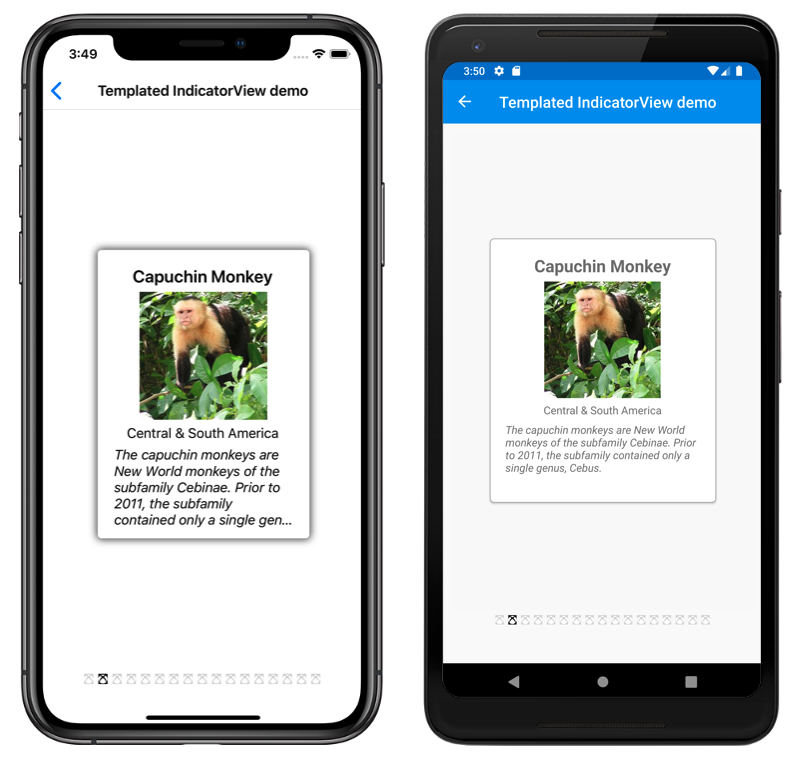
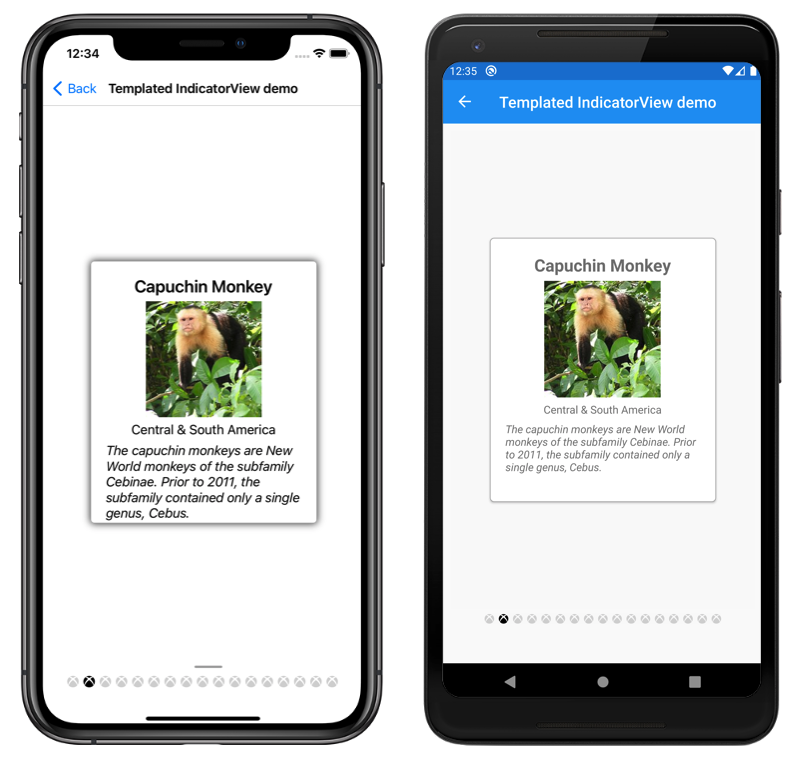
Forms 5.0 SR3 (#2315)
* Selected visual state.

* Image rename.

* Edit.

* Code update.

diff --git a/docs/xamarin-forms/user-interface/indicatorview.md b/docs/xamarin-forms/user-interface/indicatorview.md
@@ -6,7 +6,7 @@ ms.assetId: BBCC223B-4B02-46B7-80BB-EE0E86A67CE2
 ms.technology: xamarin-forms
 author: davidbritch
 ms.author: dabritch
-ms.date: 02/27/2020
+ms.date: 02/24/2021
 no-loc: [Xamarin.Forms, Xamarin.Essentials]
 ---
 
@@ -14,29 +14,29 @@ no-loc: [Xamarin.Forms, Xamarin.Essentials]
 
 [![Download Sample](~/media/shared/download.png) Download the sample](/samples/xamarin/xamarin-forms-samples/userinterface-indicatorviewdemos/)
 
-The `IndicatorView` is a control that displays indicators that represent the number of items, and current position, in a `CarouselView`:
+The [`IndicatorView`](xref:Xamarin.Forms.IndicatorView) is a control that displays indicators that represent the number of items, and current position, in a [`CarouselView`](xref:Xamarin.Forms.CarouselView):
 
 [![Screenshot of a CarouselView and IndicatorView, on iOS and Android](indicatorview-images/circles.png "IndicatorView circles")](indicatorview-images/circles-large.png#lightbox "IndicatorView circles")
 
-`IndicatorView` defines the following properties:
+[`IndicatorView`](xref:Xamarin.Forms.IndicatorView) defines the following properties:
 
 - `Count`, of type `int`, the number of indicators.
 - `HideSingle`, of type `bool`, indicates whether the indicator should be hidden when only one exists. The default value is `true`.
 - `IndicatorColor`, of type `Color`, the color of the indicators.
 - `IndicatorSize`, of type `double`, the size of the indicators. The default value is 6.0.
-- `IndicatorLayout`, of type `Layout<View>`, defines the layout class used to render the `IndicatorView`. This property is set by Xamarin.Forms, and does not typically need to be set by developers.
+- `IndicatorLayout`, of type `Layout<View>`, defines the layout class used to render the [`IndicatorView`](xref:Xamarin.Forms.IndicatorView). This property is set by Xamarin.Forms, and does not typically need to be set by developers.
 - `IndicatorTemplate`, of type `DataTemplate`, the template that defines the appearance of each indicator.
 - `IndicatorsShape`, of type `IndicatorShape`, the shape of each indicator.
 - `ItemsSource`, of type `IEnumerable`, the collection that indicators will be displayed for. This property will automatically be set when the `CarouselView.IndicatorView` property is set.
 - `MaximumVisible`, of type `int`, the maximum number of visible indicators. The default value is `int.MaxValue`.
 - `Position`, of type `int`, the currently selected indicator index. This property uses a `TwoWay` binding. This property will automatically be set when the `CarouselView.IndicatorView` property is set.
-- `SelectedIndicatorColor`, of type `Color`, the color of the indicator that represents the current item in the `CarouselView`.
+- `SelectedIndicatorColor`, of type `Color`, the color of the indicator that represents the current item in the [`CarouselView`](xref:Xamarin.Forms.CarouselView).
 
 These properties are backed by [`BindableProperty`](xref:Xamarin.Forms.BindableProperty) objects, which means that they can be targets of data bindings, and styled.
 
 ## Create an IndicatorView
 
-The following example shows how to instantiate an `IndicatorView` in XAML:
+The following example shows how to instantiate an [`IndicatorView`](xref:Xamarin.Forms.IndicatorView) in XAML:
 
 ```xaml
 <StackLayout>
@@ -53,19 +53,19 @@ The following example shows how to instantiate an `IndicatorView` in XAML:
 </StackLayout>
 ```
 
-In this example, the `IndicatorView` is rendered beneath the `CarouselView`, with an indicator for each item in the `CarouselView`. The `IndicatorView` is populated with data by setting the `CarouselView.IndicatorView` property to the `IndicatorView` object. Each indicator is a light gray circle, while the indicator that represents the current item in the `CarouselView` is dark gray.
+In this example, the [`IndicatorView`](xref:Xamarin.Forms.IndicatorView) is rendered beneath the [`CarouselView`](xref:Xamarin.Forms.CarouselView), with an indicator for each item in the `CarouselView`. The `IndicatorView` is populated with data by setting the `CarouselView.IndicatorView` property to the `IndicatorView` object. Each indicator is a light gray circle, while the indicator that represents the current item in the `CarouselView` is dark gray.
 
 > [!IMPORTANT]
 > Setting the `CarouselView.IndicatorView` property results in the `IndicatorView.Position` property binding to the `CarouselView.Position` property, and the `IndicatorView.ItemsSource` property binding to the `CarouselView.ItemsSource` property.
 
 ## Change indicator shape
 
-The `IndicatorView` class has an `IndicatorsShape` property, which determines the shape of the indicators. This property can be set to one of the `IndicatorShape` enumeration members:
+The [`IndicatorView`](xref:Xamarin.Forms.IndicatorView) class has an `IndicatorsShape` property, which determines the shape of the indicators. This property can be set to one of the `IndicatorShape` enumeration members:
 
 - `Circle` specifies that the indicator shapes will be circular. This is the default value of the `IndicatorView.IndicatorsShape` property.
 - `Square` indicates that the indicator shapes will be square.
 
-The following example shows an `IndicatorView` configured to use square indicators:
+The following example shows an [`IndicatorView`](xref:Xamarin.Forms.IndicatorView) configured to use square indicators:
 
 ```xaml
 <IndicatorView x:Name="indicatorView"
@@ -76,9 +76,9 @@ The following example shows an `IndicatorView` configured to use square indicato
 
 ## Change indicator size
 
-The `IndicatorView` class has an `IndicatorSize` property, of type `double`, which determines the size of the indicators in device-independent units. The default value of this property is 6.0.
+The [`IndicatorView`](xref:Xamarin.Forms.IndicatorView) class has an `IndicatorSize` property, of type `double`, which determines the size of the indicators in device-independent units. The default value of this property is 6.0.
 
-The following example shows an `IndicatorView` configured to display larger indicators:
+The following example shows an [`IndicatorView`](xref:Xamarin.Forms.IndicatorView) configured to display larger indicators:
 
 ```xaml
 <IndicatorView x:Name="indicatorView"
@@ -87,9 +87,9 @@ The following example shows an `IndicatorView` configured to display larger indi
 
 ## Limit the number of indicators displayed
 
-The `IndicatorView` class has a `MaximumVisible` property, of type `int`, which determines the maximum number of visible indicators.
+The [`IndicatorView`](xref:Xamarin.Forms.IndicatorView) class has a `MaximumVisible` property, of type `int`, which determines the maximum number of visible indicators.
 
-The following example shows an `IndicatorView` configured to display a maximum of six indicators:
+The following example shows an [`IndicatorView`](xref:Xamarin.Forms.IndicatorView) configured to display a maximum of six indicators:
 
 ```xaml
 <IndicatorView x:Name="indicatorView"
@@ -109,27 +109,83 @@ The appearance of each indicator can be defined by setting the `IndicatorView.In
         </CarouselView.ItemTemplate>
     </CarouselView>
     <IndicatorView x:Name="indicatorView"
-                   IndicatorColor="LightGray"
-                   SelectedIndicatorColor="Black"
+                   Margin="0,0,0,40"
+                   IndicatorColor="Transparent"
+                   SelectedIndicatorColor="Transparent"
                    HorizontalOptions="Center">
         <IndicatorView.IndicatorTemplate>
             <DataTemplate>
-                <Image Source="{FontImage &#xf30c;, FontFamily={OnPlatform iOS=Ionicons, Android=ionicons.ttf#}, Size=12}" />
+                <Label Text="&#xf30c;"
+                       FontFamily="{OnPlatform iOS=Ionicons, Android=ionicons.ttf#}, Size=12}" />
             </DataTemplate>
         </IndicatorView.IndicatorTemplate>
     </IndicatorView>
 </StackLayout>
 ```
 
-The elements specified in the [`DataTemplate`](xref:Xamarin.Forms.DataTemplate) define the appearance of each indicator. In this example, each indicator is an [`Image`](xref:Xamarin.Forms.Image) that displays a font icon using the `FontImage` markup extension.
+The elements specified in the [`DataTemplate`](xref:Xamarin.Forms.DataTemplate) define the appearance of each indicator. In this example, each indicator is a [`Label`](xref:Xamarin.Forms.Label) that displays a font icon.
 
 The following screenshots show indicators rendered using a font icon:
 
 [![Screenshot of a templated IndicatorView, on iOS and Android](indicatorview-images/templated.png "Templated IndicatorView")](indicatorview-images/templated-large.png#lightbox "Templated IndicatorView")
 
-For more information about the `FontImage` markup extension, see [FontImage markup extension](~/xamarin-forms/xaml/markup-extensions/consuming.md#fontimage-markup-extension).
+## Set visual states
+
+[`IndicatorView`](xref:Xamarin.Forms.IndicatorView) has a `Selected` visual state that can be used to initiate a visual change to the indicator for the current position in the `IndicatorView`. A common use case for this [`VisualState`](xref:Xamarin.Forms.VisualState) is to change the color of the indicator that represents the current position:
+
+```xaml
+<ContentPage ...>
+    <ContentPage.Resources>
+        <Style x:Key="IndicatorLabelStyle"
+               TargetType="Label">
+            <Setter Property="VisualStateManager.VisualStateGroups">
+                <VisualStateGroupList>
+                    <VisualStateGroup x:Name="CommonStates">
+                        <VisualState x:Name="Normal">
+                            <VisualState.Setters>
+                                <Setter Property="TextColor"
+                                        Value="LightGray" />
+                            </VisualState.Setters>
+                        </VisualState>
+                        <VisualState x:Name="Selected">
+                            <VisualState.Setters>
+                                <Setter Property="TextColor"
+                                        Value="Black" />
+                            </VisualState.Setters>
+                        </VisualState>
+                    </VisualStateGroup>
+                </VisualStateGroupList>
+            </Setter>
+        </Style>
+    </ContentPage.Resources>
+
+    <StackLayout>
+        ...
+        <IndicatorView x:Name="indicatorView"
+                       Margin="0,0,0,40"
+                       IndicatorColor="Transparent"
+                       SelectedIndicatorColor="Transparent"
+                       HorizontalOptions="Center">
+            <IndicatorView.IndicatorTemplate>
+                <DataTemplate>
+                    <Label Text="&#xf30c;"
+                           FontFamily="{OnPlatform iOS=Ionicons, Android=ionicons.ttf#}, Size=12}"
+                           Style="{StaticResource IndicatorLabelStyle}" />
+                </DataTemplate>
+            </IndicatorView.IndicatorTemplate>
+        </IndicatorView>
+    </StackLayout>
+</ContentPage>
+```
+
+In this example, the `Selected` visual state specifies that the indicator that represents the current position will have its [`TextColor`](xref:Xamarin.Forms.Label.TextColor) set to black. Otherwise the `TextColor` of the indicator will be light gray:
+
+![Screenshot of IndicatorView selected visual state](indicatorview-images/visual-state.png)
+
+For more information about visual states, see [Xamarin.Forms Visual State Manager](visual-state-manager.md).
 
 ## Related links
 
 - [IndicatorView (sample)](/samples/xamarin/xamarin-forms-samples/userinterface-indicatorviewdemos/)
-- [FontImage markup extension](~/xamarin-forms/xaml/markup-extensions/consuming.md#fontimage-markup-extension)
+- [Xamarin.Forms CarouselView](~/xamarin-forms/user-interface/carouselview/index.md)
+- [Xamarin.Forms Visual State Manager](visual-state-manager.md)

diff --git a/docs/xamarin-forms/user-interface/visual-state-manager.md b/docs/xamarin-forms/user-interface/visual-state-manager.md
@@ -407,7 +407,7 @@ The following table lists the visual states that are defined in Xamarin.Forms:
 | `CheckBox` | `IsChecked` | [CheckBox visual states](~/xamarin-forms/user-interface/checkbox.md#checkbox-visual-states) |
 | `CarouselView` | `DefaultItem`, `CurrentItem`, `PreviousItem`, `NextItem` | [CarouselView visual states](~/xamarin-forms/user-interface/carouselview/interaction.md#define-visual-states) |
 | `ImageButton` | `Pressed` | [ImageButton visual states](~/xamarin-forms/user-interface/imagebutton.md#imagebutton-visual-states) |
-| `RadioButton` | `IsChecked` | [RadioButton visual states](~/xamarin-forms/user-interface/radiobutton.md#radiobutton-visual-states) |
+| `RadioButton` | `Checked`, `Unchecked` | [RadioButton visual states](~/xamarin-forms/user-interface/radiobutton.md#radiobutton-visual-states) |
 | `Switch` | `On`, `Off` | [Switch visual states](~/xamarin-forms/user-interface/switch.md#switch-visual-states) |
 | `VisualElement` | `Normal`, `Disabled`, `Focused`, `Selected` | [Common states](#common-states) |
 
